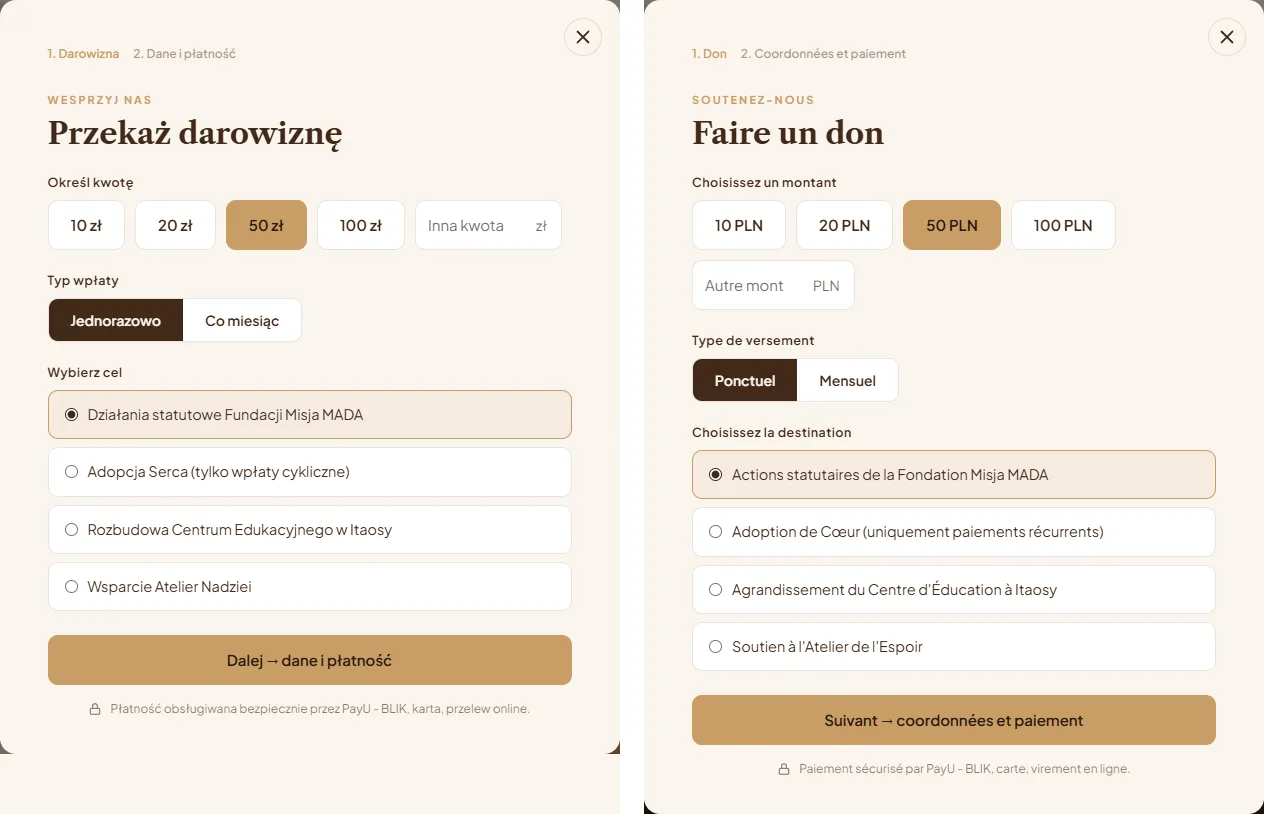
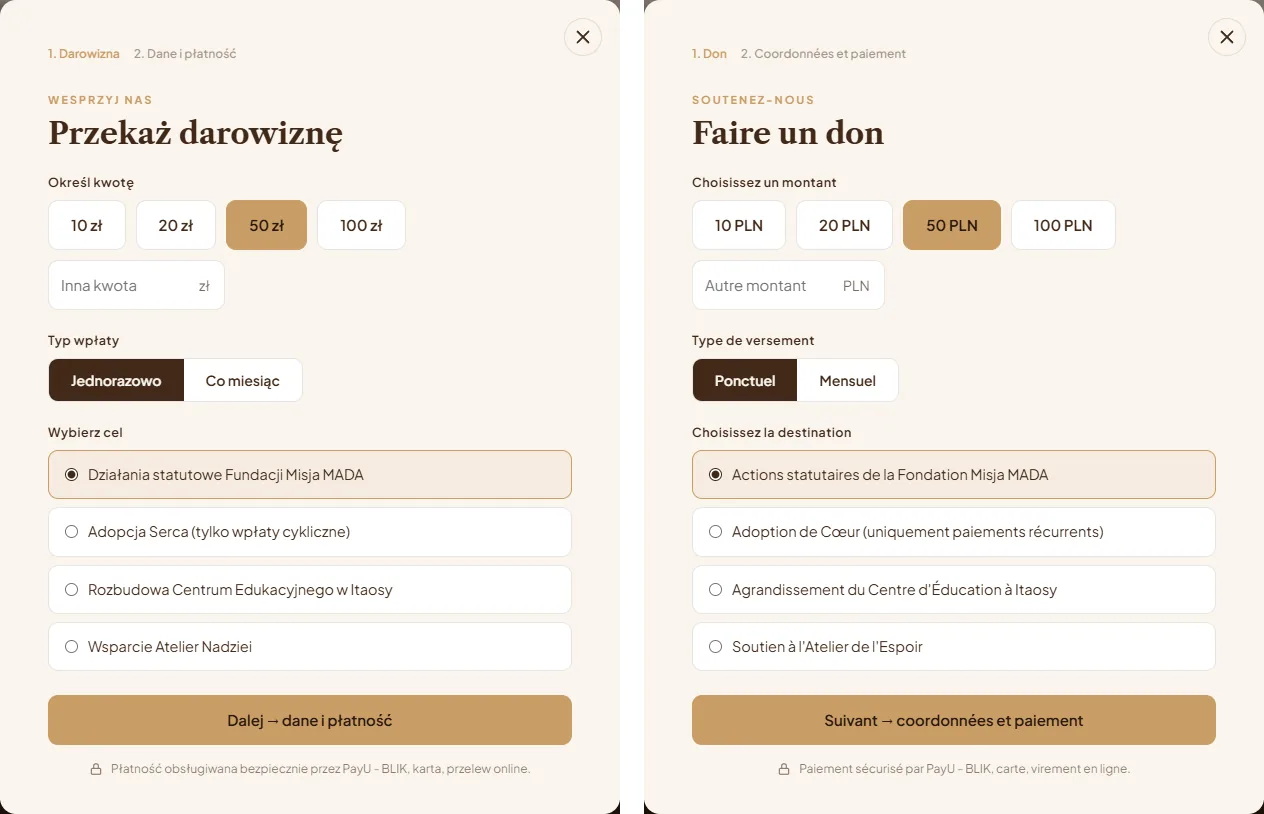
tresc: wpis MADA - zrzuty po poprawkach fundacji (#96-#98) + akapit o bledzie z zrzutow

diff --git a/content/wpisy/2026-10-03-strona-fundacji-misja-mada.md b/content/wpisy/2026-10-03-strona-fundacji-misja-mada.md
@@ -92,7 +92,7 @@ Potem trzeba przypisać każdy przelew do właściwej osoby i dziecka. Panel szu
 
 <figure>
 <a href="/media/2026/10/mada-import-podzial.webp"><img src="/media/2026/10/mada-import-podzial.webp" alt="Operacja z wyciągu w panelu: przelew 280 zł od darczyńcy z dwojgiem dzieci, rozdzielony na dwie adopcje po 140 zł za wrzesień i październik, pod każdą pasek opłaconych miesięcy" width="945" height="855" loading="lazy"></a>
-<figcaption>Jeden przelew za dwoje dzieci. Tytuł nie mówi, za jakie miesiące, więc panel dzieli kwotę po równo i liczy okres od pierwszego nieopłaconego miesiąca. Pod każdą adopcją pasek: zielone opłacone, czerwone zaległe, w ramce miesiące tej wpłaty.</figcaption>
+<figcaption>Jeden przelew za dwoje dzieci, z miesiącami wypisanymi w tytule. Panel dzieli kwotę po równo, a okres bierze z tytułu. Pod każdą adopcją pasek: zielone opłacone, czerwone zaległe, w ramce miesiące tej wpłaty.</figcaption>
 </figure>
 
 Panel tylko podpowiada. Nic nie zapisuje się samo - pracownik widzi propozycję, pasek miesięcy pod spodem i klika. Najbardziej przydatne okazało się ostrzeżenie o możliwym dublu: gdy ktoś wcześniej wpisał wpłatę ręcznie, a potem przychodzi wyciąg z tym samym przelewem, panel mówi, która to wpłata, kto i kiedy ją wpisał, i zostawia wiersz niezaznaczony.
@@ -103,6 +103,8 @@ Panel tylko podpowiada. Nic nie zapisuje się samo - pracownik widzi propozycję
 </figure>
 
 Przy przeglądzie importu wyszedł też błąd, którego testy nie łapały. Darczyńca płacący za dwoje dzieci osobnymi przelewami robi dwa identyczne przelewy tego samego dnia: ta sama kwota, ten sam nadawca, ten sam tytuł. Mechanizm, który miał chronić przed wczytaniem tego samego wyciągu dwa razy, uznawał drugi przelew za kopię i go pomijał. Poprawka była prosta, a ten przypadek ma dziś własny test. Takie scenariusze bierze się z życia, nie z wyobraźni.
+
+Coś znalazł nawet ten tekst. Przy robieniu zrzutów zauważyłem, że u darczyńcy z kilkorgiem dzieci panel ostrzegał „w tytule jest wrzesień, październik, ale bez roku”, choć rok w tytule był. Okres liczył się dobrze, ale fałszywy alarm jest groźniejszy, niż wygląda: uczy ludzi przeklikiwać ostrzeżenia, także te prawdziwe. Poprawka z testem trafiła do fundacji tego samego dnia, a przy okazji doszło ostrzeżenie w odwrotnej sytuacji - gdy tytuł mówi o innej liczbie miesięcy, niż starcza kwota. Przy tej samej okazji wyszedł ucięty po francusku napis w polu kwoty okna darowizny. Też poprawiony tego samego dnia.
 
 ### Tłumacz Google, który psuł wersję angielską
 
